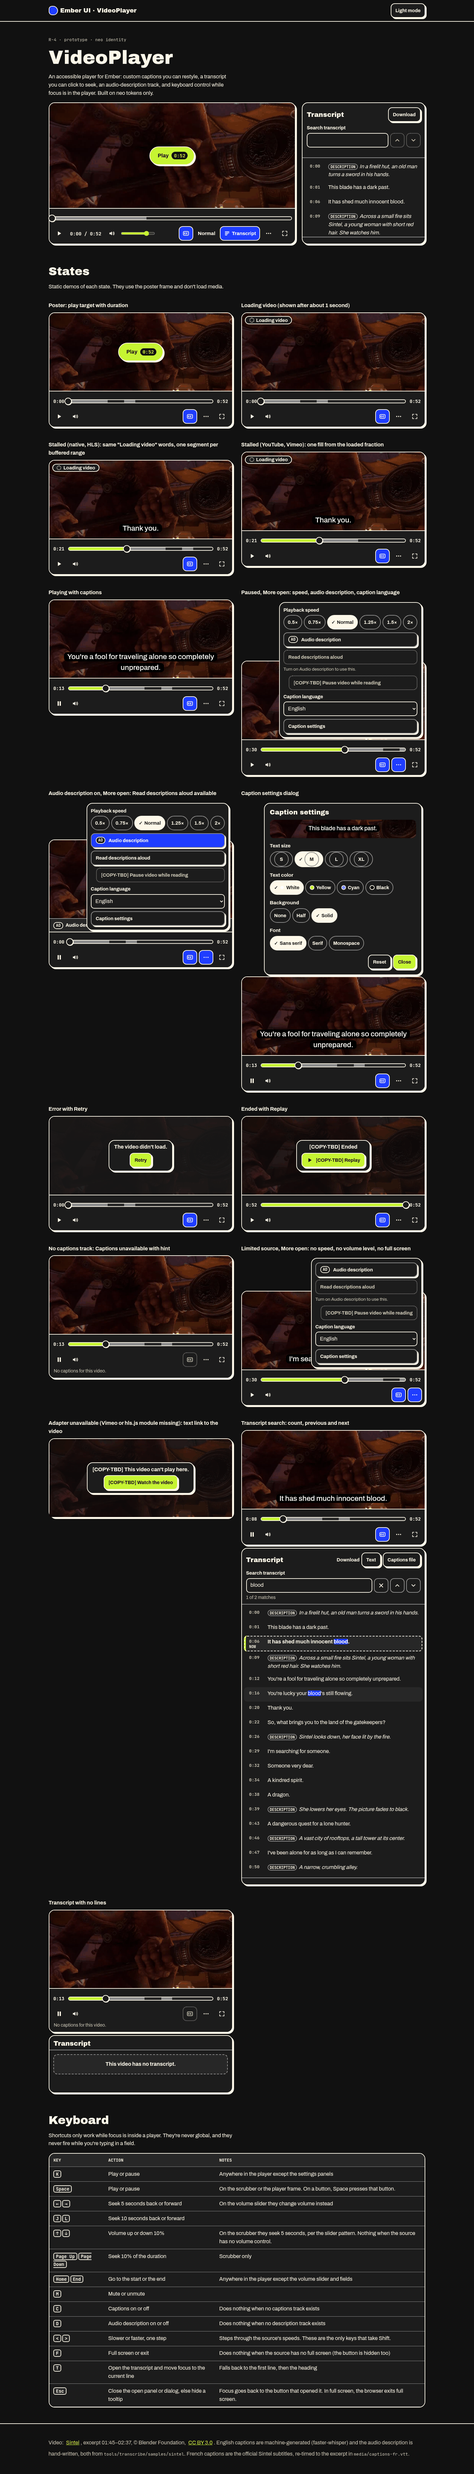
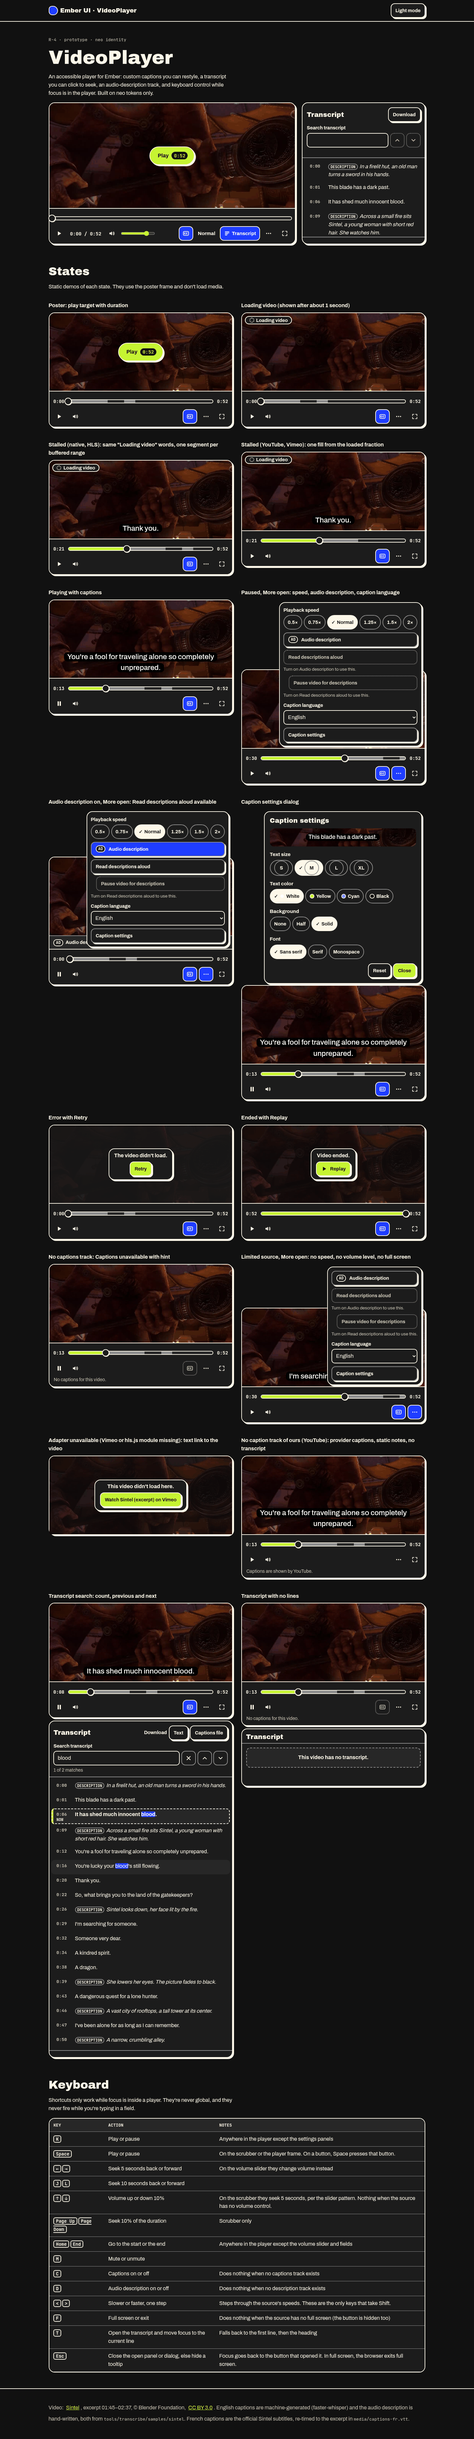
docs(video-player): KI-7 caption tokens, AD assistive-tech line, final copy
Caption colors move to --caption-text/--caption-bg extras mapped from
unthemed --palette-caption-* primitives (CA ARCH-REVIEW 9:35); Half is 70%
so every pair is >= 4.5:1 over the worst frame. AD row states how AD text
reaches assistive tech. Final R4-PLAYER-COPY strings replace every
[COPY-TBD]. Provider-captions fallback state; demo media at stories/media/sintel.

Author-bot: UX/UI Designer

Changed region(s): [[0.0938, 0.0, 0.9062, 0.9978], [0.4062, 0.9667, 0.4375, 0.9978]]

diff --git a/docs/components/video-player/index.html b/docs/components/video-player/index.html
@@ -144,18 +144,22 @@ footer{border-top:var(--border-width) solid var(--border);padding:1.2rem 0 2rem;
 footer a{display:inline-flex;align-items:center;min-height:44px;padding:0 .25rem}
 @media (prefers-reduced-motion:reduce){*,*::before,*::after{transition-duration:0s!important;scroll-behavior:auto!important}.bigplay:hover,.btn:hover,.btn:active,.ib:active{transform:none}}
 /* ===== R-4 follow-up: copy fill, captions per approved copy, dialog, tooltips, transcript tools ===== */
-/* Caption appearance follows R4-PLAYER-COPY (viewer overrides). Colors are component-local values,
-   pending CA on whether they become --palette-caption-* tokens (HANDOFF Known issue 7). */
-.vp{--cap-fg:#fff;--cap-band:0 0 0;--cap-a:1;--cap-font:var(--font-body)}
-.vp[data-cap-color=yellow]{--cap-fg:#ffe600}
-.vp[data-cap-color=cyan]{--cap-fg:#00e5ff}
-.vp[data-cap-color=black]{--cap-fg:#000;--cap-band:255 255 255}
-.vp[data-cap-bg=half]{--cap-a:.5}
-.vp[data-cap-bg=none]{--cap-a:0}
+/* Caption colors per CA ARCH-REVIEW 9:35 (KI-7). TOKEN LAYER (shared, unthemed, FSD ships it in src/tokens):
+   --palette-caption-* primitives, and [data-caption-color] selectors that set the two extras.
+   The component reads ONLY --caption-text and --caption-bg. Identical in neo, kinetic and dusk. */
+:root{--palette-caption-white:#ffffff;--palette-caption-yellow:#ffe600;--palette-caption-cyan:#00e5ff;--palette-caption-black:#000000;
+ --caption-text:var(--palette-caption-white);--caption-bg:var(--palette-caption-black);--caption-bg-alpha:1}
+[data-caption-color=white]{--caption-text:var(--palette-caption-white);--caption-bg:var(--palette-caption-black)}
+[data-caption-color=yellow]{--caption-text:var(--palette-caption-yellow);--caption-bg:var(--palette-caption-black)}
+[data-caption-color=cyan]{--caption-text:var(--palette-caption-cyan);--caption-bg:var(--palette-caption-black)}
+[data-caption-color=black]{--caption-text:var(--palette-caption-black);--caption-bg:var(--palette-caption-white)}
+[data-caption-bg=solid]{--caption-bg-alpha:1}[data-caption-bg=half]{--caption-bg-alpha:.7}[data-caption-bg=none]{--caption-bg-alpha:0}
+/* COMPONENT: reads the extras only */
+.vp{--cap-font:var(--font-body)}
 .vp[data-cap-font=serif]{--cap-font:Georgia,'Times New Roman',serif}
 .vp[data-cap-font=mono]{--cap-font:var(--font-mono)}
-.cap span,.cs-prev span{background:rgb(var(--cap-band) / var(--cap-a));color:var(--cap-fg);font-family:var(--cap-font)}
-.vp[data-cap-bg=half] .cap span,.vp[data-cap-bg=none] .cap span,.vp[data-cap-bg=half] .cs-prev span,.vp[data-cap-bg=none] .cs-prev span{text-shadow:-1px -1px 0 rgb(var(--cap-band)),1px -1px 0 rgb(var(--cap-band)),-1px 1px 0 rgb(var(--cap-band)),1px 1px 0 rgb(var(--cap-band)),0 0 3px rgb(var(--cap-band))}
+.cap span,.cs-prev span{background:color-mix(in srgb,var(--caption-bg) calc(var(--caption-bg-alpha)*100%),transparent);color:var(--caption-text);font-family:var(--cap-font)}
+.vp[data-caption-bg=half] .cap span,.vp[data-caption-bg=none] .cap span,.vp[data-caption-bg=half] .cs-prev span,.vp[data-caption-bg=none] .cs-prev span{text-shadow:-1px -1px 0 var(--caption-bg),1px -1px 0 var(--caption-bg),-1px 1px 0 var(--caption-bg),1px 1px 0 var(--caption-bg),0 0 3px var(--caption-bg)}
 .cs-prev{padding:.9rem .5rem;border-radius:var(--radius-md);background:var(--surface-muted) url(poster.jpg) center/cover;text-align:center}
 .cs-prev span{-webkit-box-decoration-break:clone;box-decoration-break:clone;padding:.08em .45em;line-height:1.5;border-radius:var(--radius-sm);font-weight:500;font-size:1.1rem}
 .vp[data-cap-size=s] .cs-prev span{font-size:.95rem}.vp[data-cap-size=l] .cs-prev span{font-size:1.3rem}.vp[data-cap-size=xl] .cs-prev span{font-size:1.55rem}
@@ -294,17 +298,17 @@ let TRACKS=[],AD=[],DUR=52,n=0;
 const TITLE='Sintel (excerpt)',SLUG='sintel-excerpt';
 function playerHTML(id,o){const sp=nm=>SPEEDS.map(s=>`<label class="chip"><input type="radio" name="${nm}-${id}" value="${s}"${s===1?' checked':''}><span>${spLabel(s)}</span></label>`).join('');
  const ch=(name,vals)=>vals.map(([v,l,full,sw])=>`<label class="chip"><input type="radio" name="${name}-${id}" value="${v}"><span>${sw?`<i class="sw" style="background:${sw}" aria-hidden="true"></i>`:''}${full?`<span aria-hidden="true">${l}</span><span class="sr">${full}</span>`:l}</span></label>`).join('');
- return `<section class="vp" id="${id}" data-state="poster" aria-label="Video player: ${o.label}" aria-describedby="${id}-hint">
+ return `<section class="vp" id="${id}" data-state="poster" aria-label="Video player: ${o.label}">
  <div class="stage">
   ${o.media?`<video playsinline preload="metadata" poster="poster.jpg"><source src="${SRC}sintel-excerpt.mp4" type="video/mp4"></video>`:`<img class="poster" src="poster.jpg" alt="">`}
-  <button class="bigplay" type="button" data-act="play"><span>${svg('play')}</span><span>Play<span class="sr"> ${TITLE}</span></span><span class="dur" aria-hidden="true">${fmt(DUR)}</span></button>
+  <button class="bigplay" type="button" data-act="play" aria-describedby="${id}-hint"><span>${svg('play')}</span><span>Play<span class="sr"> ${TITLE}</span></span><span class="dur" aria-hidden="true">${fmt(DUR)}</span></button>
   <div class="statuspill" aria-hidden="true" data-slot="pill"></div>
   <div class="cap" aria-hidden="true" data-slot="cap"></div>
   <div class="ov err"><div class="card"><p>The video didn't load.</p><button class="btn sm primary" type="button" data-act="retry">Retry</button></div></div>
-  <div class="ov end"><div class="card"><p>[COPY-TBD] Ended</p><button class="btn sm primary" type="button" data-act="replay">${svg('play')} [COPY-TBD] Replay</button></div></div>
-  <div class="ov una"><div class="card"><p>[COPY-TBD] This video can't play here.</p><a class="btn sm primary" href="https://vimeo.com/">[COPY-TBD] Watch the video</a></div></div>
+  <div class="ov end"><div class="card"><p id="${id}-endm">Video ended.</p><button class="btn sm primary" type="button" data-act="replay" aria-describedby="${id}-endm">${svg('play')} Replay<span class="sr"> ${TITLE}</span></button></div></div>
+  <div class="ov una"><div class="card"><p>This video didn't load here.</p><a class="btn sm primary" href="https://vimeo.com/">Watch ${TITLE} on Vimeo</a></div></div>
  </div>
- <p class="sr" id="${id}-hint">[COPY-TBD] Keyboard: K or Space to play or pause, left and right arrows to seek 5 seconds, J and L to seek 10 seconds, up and down arrows for volume, M to mute, C for captions, D for audio description, F for full screen, T for the transcript.</p>
+ <p class="sr" id="${id}-hint"></p>
  <div class="sr" role="status" data-slot="status"></div>
  <div class="sr" role="alert" data-slot="alert"></div>
  <p class="adline" data-slot="ad"><span class="adb" aria-hidden="true">AD</span><span class="adl">Audio description</span><span data-slot="adt" aria-live="polite"></span></p>
@@ -313,7 +317,7 @@ function playerHTML(id,o){const sp=nm=>SPEEDS.map(s=>`<label class="chip"><input
    <div class="scrub" role="slider" tabindex="0" aria-label="Seek" aria-valuemin="0" aria-valuemax="${Math.round(DUR)}" aria-valuenow="0" aria-valuetext="0 seconds of ${words(DUR)}"><div class="track"><div class="buf" aria-hidden="true"></div><div class="played"></div></div><div class="thumb"></div></div>
    <span class="tnum" data-slot="tot" aria-hidden="true">${fmt(DUR)}</span></div>
   <div class="ctl">
-   <button class="ib" type="button" data-act="toggle" aria-label="Play" data-tip="Play">${svg('play')}</button>
+   <button class="ib" type="button" data-act="toggle" aria-label="Play" data-tip="Play" aria-describedby="${id}-hint">${svg('play')}</button>
    <span class="time" data-slot="time" aria-hidden="true">0:00 / ${fmt(DUR)}</span>
    <button class="ib" type="button" data-act="mute" aria-label="Mute" data-tip="Mute" aria-pressed="false">${svg('vol')}</button>
    <span class="vol"><input type="range" min="0" max="100" step="5" value="80" aria-label="Volume" aria-valuetext="80%"></span>
@@ -325,15 +329,18 @@ function playerHTML(id,o){const sp=nm=>SPEEDS.map(s=>`<label class="chip"><input
    <button class="ib" type="button" data-act="fs" aria-label="Full screen" data-tip="Full screen">${svg('fs')}</button>
   </div>
   <p class="cchint" id="${id}-cch" hidden>No captions for this video.</p>
+  <p class="cchint" id="${id}-pcc" hidden>Captions are shown by ${o.provider||'YouTube'}.</p>
   <div class="pop" id="${id}-more" role="group" aria-label="More options" hidden>
    <fieldset class="n-only" data-speed><legend>Playback speed</legend><div class="chips">${sp('spm')}</div></fieldset>
    <button class="btn sm mi n-only" type="button" data-act="tx" aria-expanded="true" aria-controls="${id}-tx">${svg('tx')} Transcript</button>
    <button class="btn sm mi" type="button" data-act="ad" aria-pressed="false"><span class="adb" aria-hidden="true">AD</span> Audio description</button>
    <button class="btn sm mi" type="button" data-act="voice" aria-pressed="false" aria-disabled="true" aria-describedby="${id}-vh">Read descriptions aloud</button>
    <p class="hint" id="${id}-vh">Turn on Audio description to use this.</p>
-   <button class="btn sm mi sub" type="button" data-act="vpause" aria-pressed="false" aria-disabled="true">[COPY-TBD] Pause video while reading</button>
+   <button class="btn sm mi sub" type="button" data-act="vpause" aria-pressed="false" aria-disabled="true" aria-describedby="${id}-ph">Pause video for descriptions</button>
+   <p class="hint" id="${id}-ph">Turn on Read descriptions aloud to use this.</p>
    <div class="field" data-slot="langf"><label for="${id}-lang">Caption language</label><select id="${id}-lang" data-slot="lang"></select></div>
    <button class="btn sm mi" type="button" data-act="capset" aria-haspopup="dialog">Caption settings</button>
+   <p class="hint" data-slot="pset" hidden>Caption settings are in the ${o.provider||'YouTube'} player.</p>
   </div>
   <div class="pop" id="${id}-sp" role="group" aria-label="Playback speed" hidden><fieldset><legend>Playback speed</legend><div class="chips">${sp('sp')}</div></fieldset></div>
  </div>
@@ -373,12 +380,12 @@ function mount(host,o){const id='vp'+(++n);host.insertAdjacentHTML('beforeend',p
   h.hidden=!none;P.dataset.cc=!none&&S.cc.on?'on':'off';
   const lf=el('langf'),ls=el('lang');lf.hidden=tracks.length<2;ls.innerHTML=`<option value="off">Off</option>`+tracks.map(t=>`<option value="${t.id}" lang="${t.lang}">${esc(t.label)}</option>`).join('');ls.value=S.cc.on?track()?.id||'off':'off';
   for(const k of ['size','color','background','font'])$$(`input[name=${k}-${id}]`,P).forEach(i=>i.checked=i.value===S.cs[k]);
-  P.dataset.capSize=S.cs.size;P.dataset.capColor=S.cs.color;P.dataset.capBg=S.cs.background;P.dataset.capFont=S.cs.font;el('cap').lang=track()?.lang||''}
+  P.dataset.capSize=S.cs.size;P.dataset.captionColor=S.cs.color;P.dataset.captionBg=S.cs.background;P.dataset.capFont=S.cs.font;el('cap').lang=track()?.lang||''}
  function applyAD(){const has=ad.length>0,ab=$('[data-act=ad]',P),vb=$('[data-act=voice]',P),pb=$('[data-act=vpause]',P);ab.hidden=!has;
   const canVoice='speechSynthesis' in window&&!o.novoice;vb.hidden=pb.hidden=!has||!canVoice;$('#'+id+'-vh').hidden=!has||!canVoice||S.ds.on;
   ab.setAttribute('aria-pressed',S.ds.on);P.dataset.ad=has&&S.ds.on?'on':'off';
   vb.setAttribute('aria-disabled',!S.ds.on);vb.setAttribute('aria-pressed',S.ds.on&&S.ds.voice);if(S.ds.on)vb.removeAttribute('aria-describedby');else vb.setAttribute('aria-describedby',id+'-vh');
-  pb.setAttribute('aria-disabled',!(S.ds.on&&S.ds.voice));pb.setAttribute('aria-pressed',S.ds.on&&S.ds.voice&&S.ds.pause);
+  const pon=S.ds.on&&S.ds.voice;pb.setAttribute('aria-disabled',!pon);$('#'+id+'-ph').hidden=pb.hidden||pon;if(pon)pb.removeAttribute('aria-describedby');else pb.setAttribute('aria-describedby',id+'-ph');pb.setAttribute('aria-pressed',S.ds.on&&S.ds.voice&&S.ds.pause);
   // when voice is on, the text line stops being a live region so a screen reader and the speech engine don't talk over each other
   el('adt').setAttribute('aria-live',S.ds.voice?'off':'polite')}
  let lastAd=null;
@@ -437,7 +444,7 @@ function mount(host,o){const id='vp'+(++n);host.insertAdjacentHTML('beforeend',p
   // mirrors the core's getBuffered(): one segment per range where canReportBufferedRanges (native, HLS), else one fill from fraction
   v.addEventListener('progress',()=>{try{const r=[];for(let i=0;i<v.buffered.length;i++)r.push([v.buffered.start(i),v.buffered.end(i)]);S.buf={fraction:r.length&&DUR?r[r.length-1][1]/DUR:0,ranges:r}}catch(e){S.buf=null}render()});
   v.addEventListener('playing',()=>{S.playing=true;setState('playing');render()});v.addEventListener('pause',()=>{S.playing=false;if(!['ended','error'].includes(P.dataset.state))setState('paused');render()});
-  v.addEventListener('waiting',()=>{if(P.dataset.state!=='poster')setState('buffering')});v.addEventListener('ended',()=>{S.playing=false;setState('ended');render()});
+  v.addEventListener('waiting',()=>{if(P.dataset.state!=='poster')setState('buffering')});v.addEventListener('ended',()=>{S.playing=false;setState('ended');render();if(S.interacted)$('[data-act=replay]',P).focus()});
   v.addEventListener('error',()=>{S.playing=false;setState('error')},true);$('source',v).addEventListener('error',()=>{S.playing=false;setState('error')});
   v.addEventListener('click',toggle)}
  // scrubber pointer
@@ -501,16 +508,19 @@ function mount(host,o){const id='vp'+(++n);host.insertAdjacentHTML('beforeend',p
  ['pointermove','keydown','touchstart','focusin'].forEach(ev=>P.addEventListener(ev,chrome,{passive:true}));
  // capabilities from the core Player (PR #33): hide what a source can't do, never offer a control that fails
  if(caps.canReportBuffering===false){S.buf=null;P.dataset.nobuf=''}
- if(caps.providerCaptions){$('[data-act=cc]',P).dataset.cap='off';el('langf').dataset.cap='off';$('[data-act=capset]',P).dataset.cap='off'}
+ // no caption track of ours: the provider shows captions. Static notes replace Captions and Caption settings; the transcript hides.
+ if(caps.providerCaptions){$('[data-act=cc]',P).dataset.cap='off';el('langf').dataset.cap='off';$('[data-act=capset]',P).dataset.cap='off';document.getElementById(id+'-pcc').hidden=false;$('[data-slot=pset]',P).hidden=false;$$('[data-act=tx]',P).forEach(b=>b.dataset.cap='off');const tx=document.getElementById(id+'-tx');if(tx)tx.hidden=true}
+ // keyboard hint (player.keys): a sentence drops when its feature is off
+ document.getElementById(id+'-hint').textContent=['Keyboard shortcuts: K or Space plays or pauses.','Left and Right arrows skip 5 seconds, and J and L skip 10 seconds.',caps.volume&&'Up and Down arrows change the volume.','Home and End go to the start or the end.','M mutes.','C turns captions on or off.',ad.length&&'D turns audio description on or off.',caps.rate&&caps.rates.length>1&&'The less-than and greater-than keys slow down or speed up.',caps.fullscreen&&'F goes full screen.',o.tx&&!caps.providerCaptions&&'T opens the transcript.','Escape closes a panel.'].filter(Boolean).join(' ');
  if(!caps.volume)$('.vol',P).dataset.cap='off';
  if(!caps.fullscreen)$('[data-act=fs]',P).dataset.cap='off';
  if(!caps.rate||caps.rates.length<2){$('[data-act=speed]',P).dataset.cap='off';$('#'+id+'-more [data-speed]').dataset.cap='off'}
  else $$('input[type=radio][name^=sp]',P).forEach(i=>{if(!caps.rates.includes(+i.value))i.closest('label').dataset.cap='off'});
  applyCC();applyAD();setRate(S.rate);buildTx();render();
  if(o.demo)demo(o.demo);
- function demo(d){const L={poster:0,loading:0,buffering:21,buffrac:21,playing:13.4,paused:30,error:0,ended:DUR,nocc:13.4,capset:13.4,limited:30,adon:0.6,unavailable:0,txsearch:8,txempty:13.4};S.t=L[d]??0;if(!P.hasAttribute('data-nobuf'))S.buf=caps.canReportBufferedRanges===false?{fraction:Math.min(DUR,S.t+14)/DUR,ranges:null}:{fraction:Math.min(DUR,S.t+14)/DUR,ranges:[[0,Math.min(DUR,S.t+14)],[Math.min(DUR,S.t+20),Math.min(DUR,S.t+24)]]};
+ function demo(d){const L={poster:0,loading:0,buffering:21,buffrac:21,playing:13.4,paused:30,error:0,ended:DUR,nocc:13.4,capset:13.4,limited:30,adon:0.6,unavailable:0,provcc:13.4,txsearch:8,txempty:13.4};S.t=L[d]??0;if(!P.hasAttribute('data-nobuf'))S.buf=caps.canReportBufferedRanges===false?{fraction:Math.min(DUR,S.t+14)/DUR,ranges:null}:{fraction:Math.min(DUR,S.t+14)/DUR,ranges:[[0,Math.min(DUR,S.t+14)],[Math.min(DUR,S.t+20),Math.min(DUR,S.t+24)]]};
   S.playing=['playing','nocc','capset','adon','txsearch','txempty'].includes(d);
-  const state={nocc:'playing',capset:'playing',adon:'playing',limited:'paused',txsearch:'playing',txempty:'playing',buffrac:'buffering'}[d]||d;setState(state,true);
+  const state={provcc:'playing',nocc:'playing',capset:'playing',adon:'playing',limited:'paused',txsearch:'playing',txempty:'playing',buffrac:'buffering'}[d]||d;setState(state,true);
   if(d==='adon'){S.ds.on=true;applyAD()}
   render();
   if(d==='paused'||d==='limited'||d==='adon'){showPop($('#'+id+'-more'),$('[data-act=more]',P));document.activeElement&&document.activeElement.blur()}
@@ -519,11 +529,12 @@ function mount(host,o){const id='vp'+(++n);host.insertAdjacentHTML('beforeend',p
  return P}
 Promise.all([fetch(SRC+'captions.vtt').then(r=>r.text()),fetch('media/captions-fr.vtt').then(r=>r.text()),fetch(SRC+'ad.vtt').then(r=>r.text())]).then(([c,f,a])=>{TRACKS=[{id:'en',lang:'en',label:'English',cues:vtt(c)},{id:'fr',lang:'fr',label:'Français',cues:vtt(f)}];AD=vtt(a)}).catch(()=>{}).finally(()=>{
  mount($('#live'),{label:TITLE,media:true,tx:true});
- const G=$('#gal');[['poster','Poster: play target with duration'],['loading','Loading video (shown after about 1 second)'],['buffering','Stalled (native, HLS): same "Loading video" words, one segment per buffered range'],['buffrac','Stalled (YouTube, Vimeo): one fill from the loaded fraction'],['playing','Playing with captions'],['paused','Paused, More open: speed, audio description, caption language'],['adon','Audio description on, More open: Read descriptions aloud available'],['capset','Caption settings dialog'],['error','Error with Retry'],['ended','Ended with Replay'],['nocc','No captions track: Captions unavailable with hint'],['limited','Limited source, More open: no speed, no volume level, no full screen'],['unavailable','Adapter unavailable (Vimeo or hls.js module missing): text link to the video'],['txsearch','Transcript search: count, previous and next'],['txempty','Transcript with no lines']].forEach(([d,l])=>{
+ const G=$('#gal');[['poster','Poster: play target with duration'],['loading','Loading video (shown after about 1 second)'],['buffering','Stalled (native, HLS): same "Loading video" words, one segment per buffered range'],['buffrac','Stalled (YouTube, Vimeo): one fill from the loaded fraction'],['playing','Playing with captions'],['paused','Paused, More open: speed, audio description, caption language'],['adon','Audio description on, More open: Read descriptions aloud available'],['capset','Caption settings dialog'],['error','Error with Retry'],['ended','Ended with Replay'],['nocc','No captions track: Captions unavailable with hint'],['limited','Limited source, More open: no speed, no volume level, no full screen'],['unavailable','Adapter unavailable (Vimeo or hls.js module missing): text link to the video'],['provcc','No caption track of ours (YouTube): provider captions, static notes, no transcript'],['txsearch','Transcript search: count, previous and next'],['txempty','Transcript with no lines']].forEach(([d,l])=>{
   const f=document.createElement('figure');f.innerHTML=`<figcaption>${l}</figcaption>`;G.appendChild(f);
   const opt={label:'state demo: '+l,demo:d};
   if(d==='limited')opt.caps={rate:false,rates:[1],volume:false,fullscreen:false};
   if(d==='nocc')opt.tracks=[];
+  if(d==='provcc'){opt.caps={providerCaptions:true};opt.provider='YouTube';opt.tx=true}
   if(d==='buffrac')opt.caps={canReportBufferedRanges:false};
   if(d==='txsearch')opt.tx=true;
   if(d==='txempty'){opt.tx=true;opt.tracks=[];opt.ad=[]}

diff --git a/docs/components/video-player/HANDOFF.md b/docs/components/video-player/HANDOFF.md
@@ -5,9 +5,9 @@ Status: **draft for Chief Architect sign-off.** Coders build from this file plus
 - Prototype: [`index.html`](index.html) (open through a server that supports HTTP Range requests, e.g. `npx serve` or GitHub Pages; Python's `http.server` can't seek video).
 - Annotated shots: [`handoff/`](handoff/), made by [`annotate.cjs`](annotate.cjs) (neo pattern).
 - Core it is designed against: FSD's [PR #33](https://github.com/balbonits/a11y-design-system/pull/33), `feat/r4-video` at `8f4eb06` (`src/video/player.ts`, `src/video/vtt.ts`, adapters), and its current head `acd2f93` with `docs/components/video-player/CORE-API.md` sections 5a (tracks, descriptions, voicing) and 5b (`waiting`/`resumed`, `bufferedchange`, `getBuffered()` → `{ fraction, ranges }`, `canReportBuffering`, `canReportBufferedRanges`, `providerCaptions`, `VideoAdapterUnavailable`, `descriptions.setTrack`, `readVideoPrefs`/`writeVideoPrefs`). Read with `gh`/`git show` only.
-- Copy: `R4-PLAYER-COPY.md` from UI Copywriter (final, approved by Chief of Creatives). Every string in the prototype comes from it except the ones still marked `[COPY-TBD]` (see Copy).
+- Copy: `R4-PLAYER-COPY.md` from UI Copywriter (final, approved by Chief of Creatives). Every string in the prototype comes from it; none is left as `[COPY-TBD]`.
 - Identity: neo tokens only (`docs/directions/v3/neo/tokens.css`), locked Addendum 5 and 7 names, no aliases, no new tokens. `--scrim` from `e48047a`. `--target-min` is 44px.
-- Media for the demo: `tools/transcribe/samples/sintel/` (52s excerpt, 1126×480, captions.vtt, ad.vtt, transcript.txt) and `media/captions-fr.vtt` (the official French Sintel subtitles from `reference/sintel_fr.srt`, re-timed to the excerpt, so the Caption language picker has two real tracks). Sintel © Blender Foundation, CC BY 3.0.
+- Media: the shipped demo (Storybook) reads `stories/media/sintel/` (captions.vtt, ad.vtt, transcript.txt, ATTRIBUTION.md are there). FSD copies `sintel-excerpt.mp4` (52s, 1126×480, under 10 MB per R-4) and this folder's `media/captions-fr.vtt` (the official French Sintel subtitles from `reference/sintel_fr.srt`, re-timed to the excerpt, for the Caption language picker) into it during the player build (CA ruling). `tools/transcribe/samples/sintel/` is only the generator's input; this prototype plays from it because the mp4 isn't in `stories/` yet. Sintel © Blender Foundation, CC BY 3.0.
 
 Checks at this commit (from `annotate.cjs`): 320 / 375 / 768 / 1024 / 1440 × light / dark: horizontal overflow 0, axe serious+critical 0, WCAG 1.4.12 text spacing overflow 0 and clipped 0, 200% zoom (640 css px) overflow 0, targets under 44px: none, page errors: none. Keyboard smoke test passes: End, Home, arrows, J/L, `<`/`>` speed steps, Shift+M ignored, M (aria-pressed and "Muted" valuetext), D, C, T (focus to the transcript), Esc returns focus, caption language switch (French cue renders with `lang=fr`), Caption settings dialog (focus to the checked size, live preview, Reset announces "Caption settings reset.", Esc closes and focus returns to More), prefs written as one `ember:video:v1` object, a corrupt stored value falls back silently, transcript search count, Enter / Shift+Enter, no-results text, Clear search.
 
@@ -54,14 +54,14 @@ Decisions (pushback, with reasons):
 | Time | flanks scrubber | inline `cur / dur` | never |
 | Mute | bar, `aria-pressed` | bar | never (works even on iOS) |
 | Volume slider | hidden | bar, **only with `(hover:hover) and (pointer:fine)`** | `capabilities.volume === false` (iOS) |
-| Captions | bar, `aria-pressed` | bar | `capabilities.providerCaptions`. With no usable track it stays visible, `aria-disabled="true"`, `aria-describedby` the hint "No captions for this video." |
+| Captions | bar, `aria-pressed` | bar | `capabilities.providerCaptions`: replaced by the static note "Captions are shown by {provider}." under the bar. With no track at all (and no provider captions) it stays visible, `aria-disabled="true"`, `aria-describedby` the hint "No captions for this video." |
 | Speed | inside More (radio chips) | bar button showing the value ("Normal", "1.5×"), name "Playback speed, {value}" | `rate === false` or `rates.length < 2`; otherwise only chips in `capabilities.rates` |
-| Transcript | inside More, `aria-expanded` | bar button, `aria-expanded` | no transcript configured |
-| Audio description | inside More, `aria-pressed`, `AD` badge plus full name | inside More | no descriptions track (a failed descriptions VTT hides it) |
+| Transcript | inside More, `aria-expanded` | bar button, `aria-expanded` | no transcript configured, or `providerCaptions` (the panel hides too) |
+| Audio description | inside More, `aria-pressed`, `AD` badge plus full name | inside More | no descriptions track (a failed descriptions VTT hides it). **How AD reaches assistive tech, not only the visual line:** each description cue's text is put in a polite live region as it starts, so screen readers read it (see Live-region policy). With Read descriptions aloud on, the live region turns off and the speech engine speaks it instead, so it's heard once, never twice. It's also always in the transcript as a labeled Description row |
 | Read descriptions aloud | inside More, under Audio description, `aria-pressed` | inside More | no descriptions track, or no speech engine (`canVoice()` false). Disabled (`aria-disabled`, hint "Turn on Audio description to use this.") while AD is off |
-| Pause video while reading `[COPY-TBD]` | sub-toggle under Read aloud, `aria-pressed`, default off | inside More | same as Read aloud. Disabled until Read aloud is on |
+| Pause video for descriptions | sub-toggle under Read aloud, `aria-pressed`, default off. Disabled (`aria-disabled`, `aria-describedby` the hint "Turn on Read descriptions aloud to use this.") until Read aloud is on | inside More | same as Read aloud |
 | Caption language | inside More, native `select` with Off first | inside More | fewer than 2 caption tracks, or `providerCaptions` |
-| Caption settings | inside More, opens a modal dialog | inside More | `providerCaptions` |
+| Caption settings | inside More, opens a modal dialog | inside More | `providerCaptions`: replaced by the static note "Caption settings are in the {provider} player." in More |
 | Full screen | bar, name "Full screen" / "Exit full screen" | bar | `capabilities.fullscreen === false` (iPhone Safari) |
 
 - **More is a disclosure (`button aria-expanded` plus a `role=group` panel), not `role=menu`.** It mixes radio chips, toggles and a select; menu semantics would force arrow-key-only navigation and break the radios.
@@ -80,14 +80,14 @@ From PR #33 and 5b. "Ours" means our UI renders it from the core.
 | Mute | ours | ours | ours | ours |
 | Volume slider | ours, except iOS (`volume:false`) | same as native | ours | ours |
 | Speed | ours, `capabilities.rates` | ours | ours, YouTube's rate list | hidden unless the owner account allows it (`rate:false`) |
-| Captions, language, settings | ours from VTT | ours from VTT | ours from VTT. Only when the host has no VTT and passes `providerCaptions`: our caption controls hide and More shows "Captions are shown by YouTube." | same: "Captions are shown by Vimeo." |
+| Captions, language, settings | ours from VTT | ours from VTT | ours from VTT. Only when the source has no VTT of ours: the adapter turns on YouTube's captions (`cc_load_policy:1`), the core sets `providerCaptions`, our Captions, Caption language, Caption settings and Transcript hide, and the two fallback notes show | same, with Vimeo's text track |
 | Audio description, Read aloud | ours | ours | ours | ours |
 | Transcript | ours | ours | ours | ours |
 | Full screen | ours on the container, except iPhone (`fullscreen:false`) | same | ours on the container | ours on the container |
 | Buffered fill | one segment per range (`ranges`) | one segment per range | one fill from `fraction` (`ranges` null) | one fill from `fraction`. On any adapter, no fill when `fraction` is 0 |
 | Adapter can't load | Error state | **Unavailable state** when `hls.js` is missing on a browser without native HLS | Error state | **Unavailable state** when `@vimeo/player` is missing |
 
-Unavailable state: the core rejects with `VideoAdapterUnavailable` (`adapter: 'vimeo' \| 'hls'`). The frame shows "This video can't play here." `[COPY-TBD]` and a text link to the video `[COPY-TBD]` (a plain `a` to the source page, focusable, 44px), with no bar and no big Play (CA ruling).
+Unavailable state: the core rejects with `VideoAdapterUnavailable` (`adapter: 'vimeo' \| 'hls'`). The frame shows "This video didn't load here." and a text link "Watch {title} on {provider}" (e.g. "Watch Sintel (excerpt) on Vimeo"; a plain `a` to the source page, same tab, 44px; if a host opens it in a new tab, the name adds "(opens in a new tab)"), with no bar and no big Play (CA ruling). It's static, or `role=alert` if it fails after the page has loaded.
 
 ## H-4 States
 
@@ -105,10 +105,11 @@ All shown in the prototype's States gallery (static, no media load) and in `hand
 | Audio description on | AD line under the frame; Read descriptions aloud enabled | when Read aloud is on, the AD text stops being a live region so the screen reader and speech engine don't talk at once |
 | Caption settings dialog | preview line, Text size, Text color, Background, Font, Reset, Close | |
 | Error | `--scrim` over the frame, "The video didn't load." and Retry | if it fails after the user started playback: `role=alert` and focus moves to Retry. A failure on first load shows the card without an alert |
-| Ended | `--scrim`, card and Replay | `[COPY-TBD]` |
+| Ended | `--scrim`, "Video ended." and Replay | Replay's name is "Replay {title}" (visible "Replay" plus hidden title) and its `aria-describedby` is the message, so the message isn't also a live region. When playback ends after the user started it, focus moves to Replay |
 | No captions | Captions `aria-disabled`, hint "No captions for this video." under the bar | C does nothing |
 | Limited source | no Speed, no volume slider, no Full screen | from `capabilities` |
-| Adapter unavailable | `--scrim`, card with message and a text link to the video, no bar | Vimeo or hls.js module missing; `[COPY-TBD]` |
+| Adapter unavailable | `--scrim`, "This video didn't load here." and "Watch {title} on {provider}", no bar | Vimeo or hls.js module missing |
+| Provider captions | provider draws captions; "Captions are shown by {provider}." under the bar; More shows "Caption settings are in the {provider} player."; no Transcript button or panel | only when the source has no caption track of ours (`providerCaptions`). Both notes are static text, not live regions |
 | Transcript search | count "1 of 3 matches" / "1 match", current match outlined, Previous match and Next match | buttons `aria-disabled` at 0 matches; Enter and Shift+Enter step |
 | Transcript, no results | 'No lines match "zzz".' | |
 | Transcript empty | "This video has no transcript." | search, downloads and Jump are hidden |
@@ -164,7 +165,7 @@ Shortcuts work **only while focus is inside that player** (never global, WCAG 2.
 - Tab order: big Play (poster only), scrubber, Play, Mute, Volume, Captions, Speed, Transcript, More, Full screen, then any open panel, then the transcript (Download, search, Clear search, Previous match, Next match, rows, Jump to current).
 - Focus ring: neo `--focus-ring-*`. Bar padding is larger than ring offset + width so rings never clip.
 - Panels: one open at a time. Opening a panel moves focus to its first control. The Download disclosure moves focus to its first link and Esc closes it.
-- The player has `aria-describedby` pointing at a visually hidden keyboard hint (Copy).
+- Keyboard hint ("Keyboard shortcuts: ...", Copy) is visually hidden and is the `aria-describedby` of the big Play button and of Play/Pause, not of the `section`: a description on the region isn't read when focus lands on a child. A sentence drops when its feature is off (volume, descriptions, speed with one rate, full screen, transcript).
 - Captions box is `aria-hidden`; captions in another language get `lang` on the caption box.
 
 ## H-7 Motion
@@ -203,16 +204,32 @@ Only these neo tokens are used (no new tokens, no aliases):
 | Focus | `--focus-ring-width`, `--focus-ring-offset`, `--focus-ring-style`, `--focus-ring-color` |
 | Motion | `--duration-fast`, `--duration-base`, `--ease-standard`, `--ease-press` |
 
-Caption settings follow the approved copy (viewer overrides). This replaces the earlier token-pair presets.
+Caption settings follow the approved copy (viewer overrides) in a native dialog. Colors are tokens per CA's ARCH-REVIEW 9:35 ruling (was Known issue 7), and they're **unthemed**: identical in neo, kinetic and dusk, because caption legibility mustn't change with the theme.
+
+**Tokens (FSD adds them to the shared token layer, not to a theme):**
+
+- Primitives: `--palette-caption-white: #ffffff`, `--palette-caption-yellow: #ffe600`, `--palette-caption-cyan: #00e5ff`, `--palette-caption-black: #000000`.
+- Two registered extras the component reads, and nothing else: `--caption-text` and `--caption-bg`. Neutral defaults are the White pair (`--caption-text: var(--palette-caption-white)`, `--caption-bg: var(--palette-caption-black)`).
+- Mapping in the token layer: `[data-caption-color=white|yellow|cyan|black]` sets both extras, and `[data-caption-bg=none|half|solid]` sets the band opacity. The component sets those attributes on the player root from the saved prefs. No raw values in the component.
+
+| Text color (`data-caption-color`) | `--caption-text` | `--caption-bg` | Solid | Half (70%) over the worst frame |
+|---|---|---|---|---|
+| White (default) | `--palette-caption-white` | `--palette-caption-black` | 21.00:1 | 8.45:1 over a white frame |
+| Yellow | `--palette-caption-yellow` | `--palette-caption-black` | 16.57:1 | 6.67:1 over a white frame |
+| Cyan | `--palette-caption-cyan` | `--palette-caption-black` | 13.65:1 | 5.50:1 over a white frame |
+| Black | `--palette-caption-black` | `--palette-caption-white` (light band) | 21.00:1 | 9.90:1 over a black frame |
+
+- **Half is 70% band opacity, not 50%.** Checked over a bright frame as Creatives asked: at 50%, white text over a white frame is 3.95:1, yellow 3.12:1 and cyan 2.57:1, all under 4.5:1. 70% is the lowest round value where every pair passes (cyan is the worst at 5.50:1). The label stays "Half" per the copy.
+- **None** is a viewer opt-out: no band, only a 1px outline in `--caption-bg` (Half has it too). It can't guarantee 4.5:1 over every frame, so it's never the default (Known issue 4).
+- For `scripts/contrast.mjs` (FSD adds these pairs, unthemed, checked once): the four Solid pairs above at 4.5:1 or better, plus the four Half pairs composited over the worst frame (white for White/Yellow/Cyan, black for Black).
+- Captions on must still pass WCAG 1.4.12 text spacing (the prototype's text-spacing scan runs with captions on).
 
 | Setting | Values (stored value) | Rule |
 |---|---|---|
 | Text size | Small, Medium (default), Large, Extra large (`s`, `m`, `l`, `xl`); chips show S, M, L, XL with the full name as hidden text | `clamp(.875rem,.45rem+2cqi,1.6rem)` / `clamp(1rem,.55rem+2.4cqi,1.9rem)` / `clamp(1.2rem,.7rem+3cqi,2.3rem)` / `clamp(1.45rem,.85rem+3.8cqi,2.8rem)` |
-| Text color | White (default), Yellow, Cyan, Black (`white`, `yellow`, `cyan`, `black`) | `#fff`, `#ffe600`, `#00e5ff`, `#000`. Black switches the band to white. Component-local values, pending CA (Known issue 7) |
-| Background | None, Half, Solid (default) (`none`, `half`, `solid`) | band at 0 / 50% / 100% of black (white for Black text). None and Half add a 1px outline in the band color so text holds over bright frames |
+| Text color | White (default), Yellow, Cyan, Black (`white`, `yellow`, `cyan`, `black`) | the token pairs above |
+| Background | None, Half, Solid (default) (`none`, `half`, `solid`) | band opacity 0 / 70% / 100% of `--caption-bg` |
 | Font | Sans serif (default), Serif, Monospace (`sans`, `serif`, `mono`) | `--font-body` / `Georgia, serif` (no serif token) / `--font-mono` |
-
-Contrast on Solid: white, yellow and cyan on black are 21:1, 19.6:1 and 15.6:1; black on white is 21:1.
 
 **Saved prefs:** one JSON object in `localStorage["ember:video:v1"]` (override with the `storageKey` prop), the same shape as the core's `readVideoPrefs`/`writeVideoPrefs`: `{ volume, muted, rate, captions: lang | 'off' | null, descriptions: 'off' | 'text' | 'voice', pauseWhileReading, captionStyle: { size, color, background, font } }`. A bad field falls back to its default, and a storage error falls back silently. Only the main player saves; demos don't. Reset restores the caption style defaults only.
 
@@ -233,7 +250,7 @@ Regenerate: serve the repo root with Range support, then `NODE_PATH=<node_module
 5. Keyboard listener on the player root, not `document` (H-6). Ignore events from text inputs and with modifiers.
 6. States from events: `play`/`pause`/`ended`/`error` map directly; Loading is "play requested, no `play` yet"; Stalled is `waiting` until `resumed`; redraw the fill on `bufferedchange`; catch `VideoAdapterUnavailable` into the Unavailable state. Start the 1s timer on entering either and clear it on leaving.
 7. Overlay bar and auto-hide only under `:fullscreen` (H-7).
-8. Copy: every string comes from `R4-PLAYER-COPY.md`; anything still marked `[COPY-TBD]` waits for UI Copywriter.
+8. Copy: every string comes from `R4-PLAYER-COPY.md`.
 9. Prototype CSS is the reference for spacing and sizes; port it to the Ember component's CSS with the same token names.
 10. Prefs through `readVideoPrefs`/`writeVideoPrefs` (5b) plus `pauseWhileReading`; validate `captionStyle` per field against H-8.
 11. Voicing through `createDescriptions` and `browserSpeech()` (5a). `pauseWhileSpeaking` maps to `pauseWhileReading`, default false.
@@ -241,14 +258,15 @@ Regenerate: serve the repo root with Range support, then `NODE_PATH=<node_module
 
 ## Copy
 
-Strings are from `R4-PLAYER-COPY.md` (final). Still open with UI Copywriter (asked at 9:35 PM PT, cc Chief of Creatives):
+Every string is from `R4-PLAYER-COPY.md` (final, approved by Chief of Creatives). The last ones filled in this revision:
 
-| Where | Placeholder in the prototype |
+| Where | String |
 |---|---|
-| Ended card | `[COPY-TBD] Ended` / `[COPY-TBD] Replay` |
-| Keyboard hint (screen readers, `aria-describedby`) | `[COPY-TBD] Keyboard: K or Space to play or pause, ...` (draft lists every key in H-6) |
-| Pause sub-toggle | `[COPY-TBD] Pause video while reading` |
-| Adapter unavailable | `[COPY-TBD] This video can't play here.` / `[COPY-TBD] Watch the video` |
+| Ended card | "Video ended." / "Replay" (name "Replay {title}") |
+| Keyboard hint (visually hidden, `aria-describedby` of big Play and Play/Pause) | "Keyboard shortcuts: K or Space plays or pauses. Left and Right arrows skip 5 seconds, and J and L skip 10 seconds. Up and Down arrows change the volume. Home and End go to the start or the end. M mutes. C turns captions on or off. D turns audio description on or off. The less-than and greater-than keys slow down or speed up. F goes full screen. T opens the transcript. Escape closes a panel." Drop the Up/Down sentence when `capabilities.volume` is false, D with no descriptions track, the speed sentence with one rate, F with no full screen, T with no transcript |
+| Pause sub-toggle | "Pause video for descriptions"; disabled hint "Turn on Read descriptions aloud to use this." |
+| Adapter unavailable | "This video didn't load here." / "Watch {title} on {provider}" |
+| Provider captions (fallback only) | "Captions are shown by {provider}." / "Caption settings are in the {provider} player." |
 
 Track labels in the language picker ("English", "Français") come from the track metadata, not UI copy.
 
@@ -260,8 +278,8 @@ Track labels in the language picker ("English", "Français") come from the track
 4. Caption backgrounds Half and None are user choices and can drop below contrast over bright frames even with the outline; Solid is the default.
 5. No hover time preview (thumbnails) on the scrubber.
 6. Captions don't show in native full screen on iOS when the browser takes over the video element.
-7. **Open with CA:** the four caption text colors aren't registered tokens. Either register them (e.g. `--palette-caption-*`) or keep them component-local as now.
-8. **Open with CA:** embed captions. The copy and Creatives want a provider note when the provider shows captions; CA ruled provider captions only for a source with no VTT of ours (`providerCaptions`). The prototype follows CA: ours everywhere we have VTT, the note only with `providerCaptions`.
+7. ~~Caption colors aren't tokens.~~ Resolved (CA ARCH-REVIEW 9:35): `--caption-text`/`--caption-bg` from `--palette-caption-*`, unthemed (H-8).
+8. ~~Embed captions.~~ Resolved (CA): our VTT captions on every adapter; provider captions and the two fallback notes only for a source with no VTT of ours. AD placement under the frame (H-1 point 4) is approved by CA, with the assistive-tech condition on the AD row (H-3).
 9. Speech voicing uses the browser's speech engine (`speechSynthesis`); voices and timing vary by OS, so Read aloud is hidden where `canVoice()` is false.
 
 ## Out of scope
